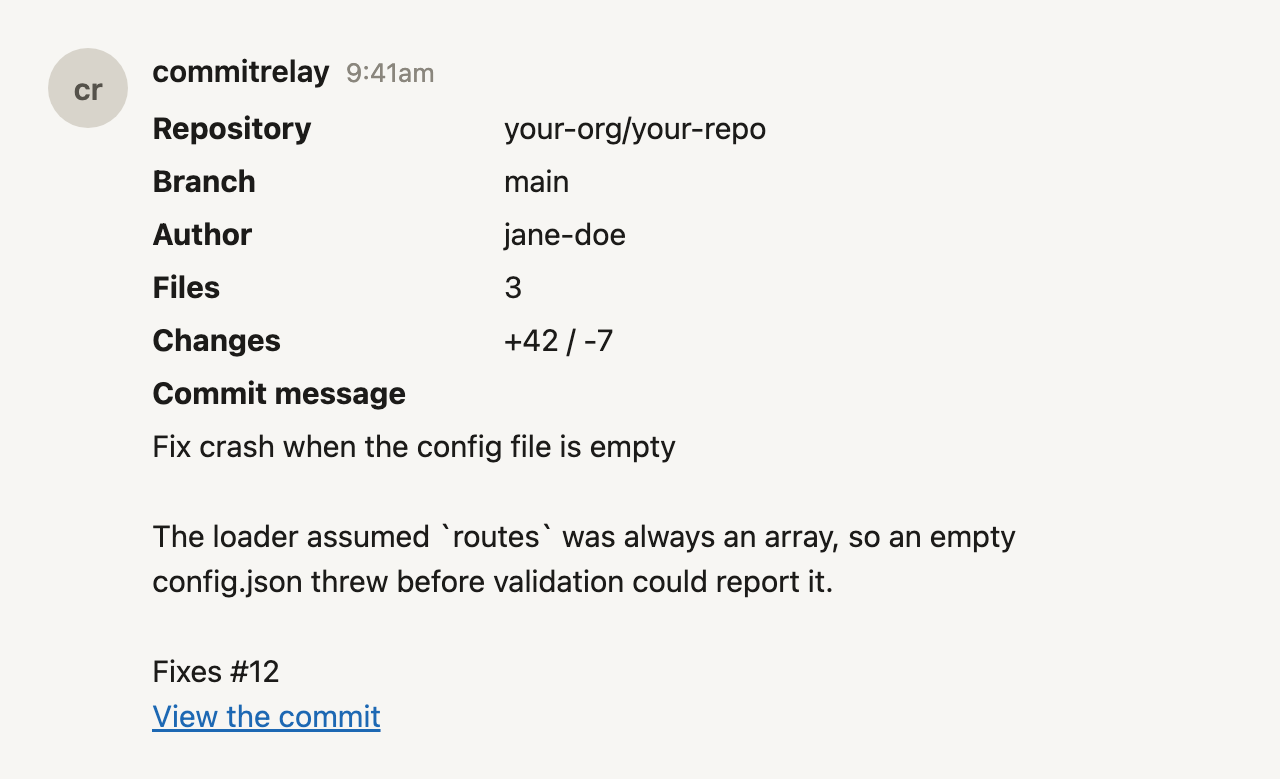
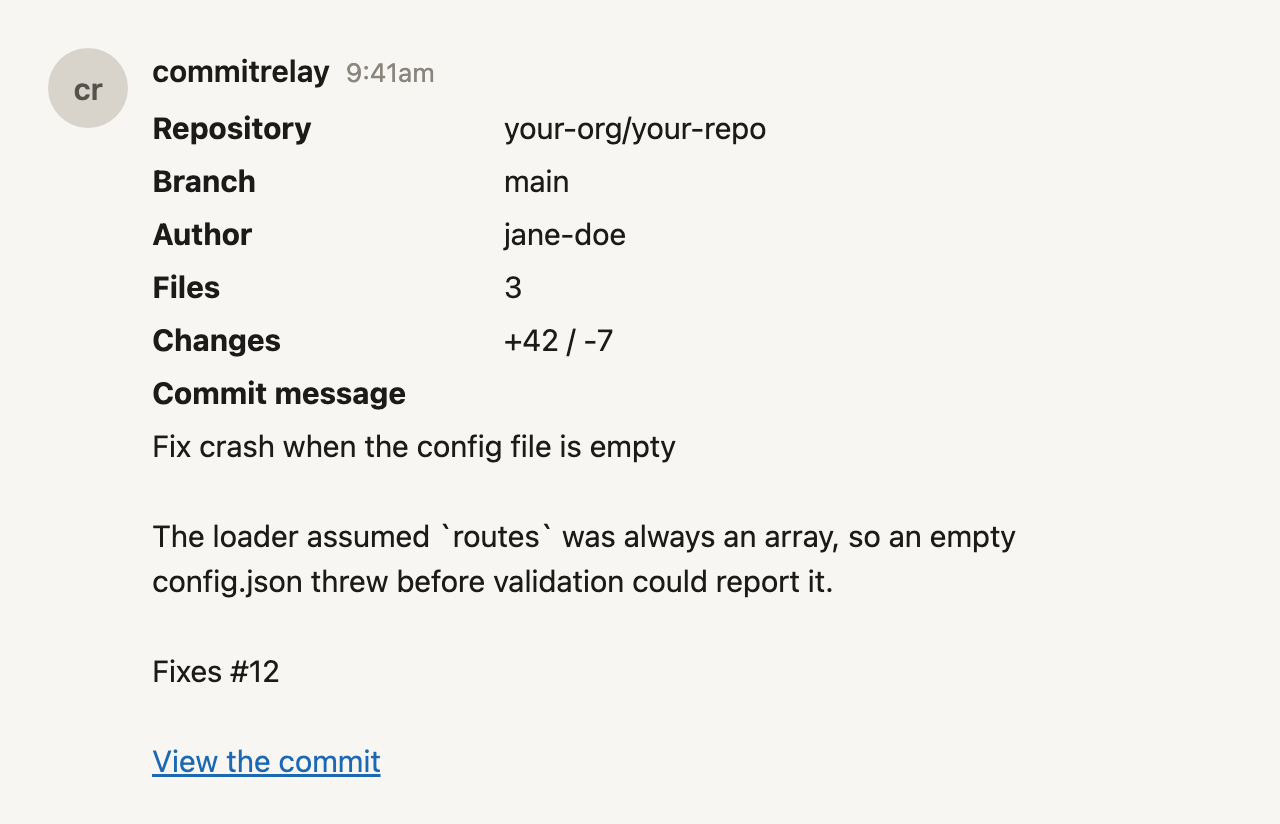
fix: link force-push rollups to the new head commit (#8)
- Force-push rollup links to the latest commit, not the comparison
- Force-push Files row reads N/A, since rewritten history shares no commits
- Poster builds headCommitUrl from the target origin and pushed SHA
- Add viewLatestCommit string and headCommitUrl to RollupView
- Put a blank line between every message body and its link
- Rollup footer reuses withLinkBelow instead of inline joins
- Update unit, e2e and golden tests for both changes
- Refresh basecamp-compat examples, configuration docs and message.png
- Add CHANGELOG entries under Changed and Fixed

diff --git a/src/render/message.test.ts b/src/render/message.test.ts
@@ -54,13 +54,14 @@ const rollup: RollupView = {
   fileCount: 48,
   authors: ['jane-doe', 'sam-lee'],
   compareUrl: 'https://github.com/your-org/your-repo/compare/abc1234...def5678',
+  headCommitUrl: 'https://github.com/your-org/your-repo/commit/def5678',
 };
 
 const doc = (...lines: string[]): string => lines.join('\n');
 
 /** The one link every commit message ends with. */
 const VIEW_COMMIT =
-  '<br><a href="https://github.com/your-org/your-repo/commit/abc1234">View the commit</a>';
+  '<br><br><a href="https://github.com/your-org/your-repo/commit/abc1234">View the commit</a>';
 
 const cp = (...codes: number[]): string => String.fromCodePoint(...codes);
 
@@ -105,7 +106,7 @@ const GOLDEN_ROLLUP_CAP = doc(
   '<tr><td colspan="2"><strong>More commits in this push</strong><br>',
   '</td></tr>',
   '<tr><td colspan="2">Individual commits are not shown for this push.<br>' +
-    'Authors: jane-doe, sam-lee<br>' +
+    'Authors: jane-doe, sam-lee<br><br>' +
     '<a href="https://github.com/your-org/your-repo/compare/abc1234...def5678">' +
     'View the full comparison</a><br>',
   '</td></tr>',
@@ -203,7 +204,7 @@ describe('buildCommitTable golden output', () => {
 
   it('renders an empty message as the commit link alone, never a missing row', () => {
     const html = buildCommitTable({ ...commit, message: '' }, lim);
-    expect(html).toContain(doc(`<tr><td colspan="2">${VIEW_COMMIT.slice(4)}<br>`, '</td></tr>'));
+    expect(html).toContain(doc(`<tr><td colspan="2">${VIEW_COMMIT.slice(8)}<br>`, '</td></tr>'));
     expect(html.match(/<tr>/g)).toHaveLength(7);
 
     const noUrl = buildCommitTable({ ...commit, message: '', commitUrl: null }, lim);
@@ -349,6 +350,7 @@ describe('the byte ceiling', () => {
           fileCount: 12,
           authors: ['a', 'b', 'c', 'd', 'e', 'f'],
           compareUrl: 'https://github.com/your-org/your-repo/compare/a...b',
+          headCommitUrl: 'https://github.com/your-org/your-repo/commit/b',
         },
         limLocal,
       );
@@ -364,7 +366,7 @@ describe('the byte ceiling', () => {
 
     expect(short).toContain(
       doc(
-        '<tr><td colspan="2">Fix crash when the config file is empty<br>' +
+        '<tr><td colspan="2">Fix crash when the config file is empty<br><br>' +
           '<a href="https://github.com/your-org/your-repo/commit/abc1234">' +
           'View the commit</a><br>',
         '</td></tr>',
@@ -376,7 +378,7 @@ describe('the byte ceiling', () => {
   it('hard-clips a 400 KB single-line subject rather than emitting it', () => {
     const message = 'z& '.repeat(140_000);
     const empty = buildCommitTable({ ...commit, message: '' }, lim);
-    const link = `<br><a href="${commit.commitUrl ?? ''}">${S.viewCommit}</a>`;
+    const link = `<br><br><a href="${commit.commitUrl ?? ''}">${S.viewCommit}</a>`;
     const tight = { ...lim, contentMaxBytes: contentBytes(empty) + contentBytes(link) + 200 };
     const html = buildCommitTable({ ...commit, message }, tight);
 
@@ -416,7 +418,7 @@ describe('hrefs', () => {
       expect(html).not.toContain('<a ');
       expect(html).not.toContain('href');
       // The rejected URL still takes the link's own line, as inert text.
-      expect(html).toContain(doc(`<tr><td colspan="2">Subject<br>${asText}<br>`, '</td></tr>'));
+      expect(html).toContain(doc(`<tr><td colspan="2">Subject<br><br>${asText}<br>`, '</td></tr>'));
     }
 
     const unlinked = buildCommitTable({ ...commit, message, commitUrl: null }, lim);
@@ -435,13 +437,13 @@ describe('hrefs', () => {
     );
     expect(html).not.toContain('<a ');
     expect(html).not.toContain('href');
-    expect(html).toContain('Authors: jane-doe, sam-lee<br>https://evil.example/compare/a...b<br>');
+    expect(html).toContain('Authors: jane-doe, sam-lee<br><br>https://evil.example/compare/a...b<br>');
   });
 
   it('omits the link slot entirely when there is no compare URL', () => {
     const html = buildRollupTable({ ...rollup, compareUrl: null }, lim);
     expect(html).not.toContain('<a ');
-    expect(html).toContain('Authors: jane-doe, sam-lee<br><br>');
+    expect(html).toContain('Authors: jane-doe, sam-lee<br>\n');
   });
 });
 
@@ -450,14 +452,13 @@ describe('buildRollupTable', () => {
     expect(buildRollupTable(rollup, lim)).toBe(GOLDEN_ROLLUP_CAP);
   });
 
-  it('differs between the three kinds in the row-5 label and nothing else', () => {
-    const labels: Record<RollupKind, string> = {
+  it('differs between cap and branch create in the row-5 label and nothing else', () => {
+    const labels: Record<Exclude<RollupKind, 'forced'>, string> = {
       cap: S.rollupCap,
       branch_create: S.rollupBranchCreate,
-      forced: S.rollupForced,
     };
 
-    for (const kind of ['cap', 'branch_create', 'forced'] as const) {
+    for (const kind of ['cap', 'branch_create'] as const) {
       const html = buildRollupTable({ ...rollup, kind }, lim);
       expect(html).toBe(
         GOLDEN_ROLLUP_CAP.replace(
@@ -467,6 +468,18 @@ describe('buildRollupTable', () => {
       );
       expect(html).toContain(`<tr><td colspan="2"><strong>${labels[kind]}</strong><br>`);
     }
+  });
+
+  it('links a force push to the new head and reports no file count', () => {
+    const html = buildRollupTable({ ...rollup, kind: 'forced' }, lim);
+    expect(html).toBe(
+      GOLDEN_ROLLUP_CAP.replace(`<strong>${S.rollupCap}</strong>`, `<strong>${S.rollupForced}</strong>`)
+        .replace('<td>48<br>', '<td>N/A<br>')
+        .replace(
+          '<a href="https://github.com/your-org/your-repo/compare/abc1234...def5678">View the full comparison</a>',
+          '<a href="https://github.com/your-org/your-repo/commit/def5678">View the latest commit</a>',
+        ),
+    );
   });
 
   it('renders Changes as N/A and carries no remainder count', () => {

diff --git a/src/render/message.ts b/src/render/message.ts
@@ -99,6 +99,8 @@ export interface RollupView {
   fileCount: number | null;
   authors: string[];
   compareUrl: string | null;
+  /** The pushed head. A force push links here instead of the comparison. */
+  headCommitUrl: string | null;
 }
 
 /** Exhaustive by type: a new RollupKind will not compile without a string. */
@@ -109,14 +111,25 @@ const ROLLUP_LABEL: Record<RollupKind, string> = {
 };
 
 export function buildRollupTable(r: RollupView, lim: RenderLimits): string {
-  const link = anchor(r.compareUrl, S.viewComparison, lim.webOrigin);
+  // A force push has no meaningful before...after: after a history rewrite the
+  // comparison shares no commits (GitHub shows "no common ancestor"), commits[]
+  // lists the whole new history, and the old tip may hold what the rewrite purged.
+  // The webhook carries no parent SHAs to tell a rewrite from a rebase, so every
+  // force push links the new head and reports no file count.
+  const forced = r.kind === 'forced';
+  const link = (
+    forced
+      ? anchor(r.headCommitUrl, S.viewLatestCommit, lim.webOrigin)
+      : anchor(r.compareUrl, S.viewComparison, lim.webOrigin)
+  ).trim();
+  const fileCount = forced ? null : r.fileCount;
 
   // Changes is always N/A here: the compare endpoint's commits[] carries
   // no per-commit stats, and fetching them is the subrequest cost the cap avoids.
   const rows =
     pair(S.repository, plain(r.repoFullName)) +
     pair(refLabel(r.refKind), plain(r.refName)) +
-    pair(S.files, r.fileCount === null ? UNAVAILABLE : `${r.fileCount}`) +
+    pair(S.files, fileCount === null ? UNAVAILABLE : `${fileCount}`) +
     pair(S.changes, UNAVAILABLE);
 
   const distinctAuthors = [...new Set(r.authors.map((name) => plain(name)))];
@@ -125,12 +138,11 @@ export function buildRollupTable(r: RollupView, lim: RenderLimits): string {
       ? distinctAuthors.join(', ')
       : `${distinctAuthors.slice(0, 5).join(', ')}, +${distinctAuthors.length - 5} more`;
 
-  let footer =
-    `${S.commitsNotShown}<br>${S.authors}: ${authors}<br>${link.trim()}`;
+  let footer = withLinkBelow(`${S.commitsNotShown}<br>${S.authors}: ${authors}`, link);
   let html = assembleDocument(
     rows,
-    // The only per-kind difference: cap, branch create, and force push share
-    // every other row. No free-text label ever reaches the renderer.
+    // Besides the force-push link and Files row above, the only per-kind
+    // difference. No free-text label ever reaches the renderer.
     ROLLUP_LABEL[r.kind],
     // No count of any kind: nothing posted individually, and commits[] is capped at
     // 2048 with an oversized payload never delivered, so any figure here is a floor.
@@ -138,7 +150,7 @@ export function buildRollupTable(r: RollupView, lim: RenderLimits): string {
   );
 
   if (!fitsContent(html, lim.contentMaxBytes)) {
-    footer = `${S.commitsNotShown}<br>${link.trim()}`;
+    footer = withLinkBelow(S.commitsNotShown, link);
     html = assembleDocument(rows, ROLLUP_LABEL[r.kind], footer);
   }
 

diff --git a/tests/e2e.webhook.test.ts b/tests/e2e.webhook.test.ts
@@ -57,7 +57,7 @@ interface CommitTable {
 
 /** Every commit message ends with the one link in the table, to the commit. */
 const viewCommit = (sha: string): string =>
-  `<br><a href="https://github.com/your-org/your-repo/commit/${sha}">View the commit</a>`;
+  `<br><br><a href="https://github.com/your-org/your-repo/commit/${sha}">View the commit</a>`;
 
 function commitTable(v: CommitTable): string {
   return document_(
@@ -77,6 +77,7 @@ interface RollupTable {
   authors: string;
   label: string;
   compare: string;
+  linkText?: string;
 }
 
 function rollupTable(v: RollupTable): string {
@@ -88,7 +89,7 @@ function rollupTable(v: RollupTable): string {
     v.label,
     'Individual commits are not shown for this push.<br>Authors: ' +
       v.authors +
-      `<br><a href="${v.compare}">View the full comparison</a>`,
+      `<br><br><a href="${v.compare}">${v.linkText ?? 'View the full comparison'}</a>`,
   );
 }
 
@@ -122,7 +123,7 @@ describe('push.normal.json, 3 commits on an allowed branch', () => {
         '</td></tr>\n' +
         '<tr><td colspan="2"><strong>Commit message</strong><br>\n' +
         '</td></tr>\n' +
-        '<tr><td colspan="2">Add the changelog entry for 1.4.0<br>' +
+        '<tr><td colspan="2">Add the changelog entry for 1.4.0<br><br>' +
         '<a href="https://github.com/your-org/your-repo/commit/0b1c2d3e4f50617283940a1b2c3d4e5f60718293">' +
         'View the commit</a><br>\n' +
         '</td></tr>\n' +
@@ -222,10 +223,12 @@ describe('the rollup fixtures', () => {
     expect(r.basecamp.contents()[0]).toBe(
       rollupTable({
         branch: 'main',
-        files: '1',
+        files: 'N/A',
         authors: 'jane-doe, sam-lee',
         label: 'Force push',
-        compare: 'https://github.com/your-org/your-repo/compare/420377da02f0...f3d04611f21b',
+        compare:
+          'https://github.com/your-org/your-repo/commit/f3d04611f21b71992652048e971d6e3fa6c3a1d2',
+        linkText: 'View the latest commit',
       }),
     );
   });
@@ -399,7 +402,7 @@ describe('pull request events', () => {
     );
 
   const VIEW_PR =
-    '<br><a href="https://github.com/your-org/your-repo/pull/42">View the pull request</a>';
+    '<br><br><a href="https://github.com/your-org/your-repo/pull/42">View the pull request</a>';
 
   it('posts one table when a pull request is merged, and calls no GitHub API', async () => {
     const r = relay();
@@ -446,7 +449,7 @@ describe('pull request events', () => {
         files: 'N/A',
         changes: 'N/A',
         body:
-          'Add OAuth login flow<br><a href="https://github.com/your-org/your-repo/pull/42' +
+          'Add OAuth login flow<br><br><a href="https://github.com/your-org/your-repo/pull/42' +
           '#pullrequestreview-900001">View the pull request</a>',
       }),
     );

diff --git a/src/render/table.ts b/src/render/table.ts
@@ -99,10 +99,10 @@ export function renderMessageBody(raw: string, maxCodePoints: number): string {
     .replace(/(?:<br>){3,}/g, '<br><br>');
 }
 
-/** The message, then the link on a line of its own. Either alone when the
- *  other is empty, so an empty message never starts with a bare <br>. */
+/** The message, a blank line, then the link. Either alone when the other is
+ *  empty, so an empty message never starts with a bare <br>. */
 export const withLinkBelow = (bodyHtml: string, linkHtml: string): string =>
-  bodyHtml === '' || linkHtml === '' ? bodyHtml + linkHtml : `${bodyHtml}<br>${linkHtml}`;
+  bodyHtml === '' || linkHtml === '' ? bodyHtml + linkHtml : `${bodyHtml}<br><br>${linkHtml}`;
 
 export function anchor(url: string | null, text: string, origin: string): string {
   const safe = safeUrl(url, origin); // https only, origin must match; null otherwise

diff --git a/src/relay/poster.ts b/src/relay/poster.ts
@@ -266,6 +266,8 @@ export async function postRollupJob(
         fileCount: rollup.fileCount,
         authors: rollup.authors,
         compareUrl: push.compareUrl,
+        // webOrigin is a validated https origin and repoFullName two checked segments.
+        headCommitUrl: `${push.target.webOrigin}/${push.repoFullName}/commit/${push.after}`,
       },
       renderLimits(deps, push),
     );

diff --git a/src/render/pull-request.test.ts b/src/render/pull-request.test.ts
@@ -41,7 +41,7 @@ const GOLDEN_MERGED = doc(
   '</td></tr>',
   '<tr><td colspan="2"><strong>Pull request #42 merged</strong><br>',
   '</td></tr>',
-  '<tr><td colspan="2">Add OAuth login flow<br>' +
+  '<tr><td colspan="2">Add OAuth login flow<br><br>' +
     '<a href="https://github.com/your-org/your-repo/pull/42">View the pull request</a><br>',
   '</td></tr>',
   '</tbody>',

diff --git a/src/render/strings.ts b/src/render/strings.ts
@@ -15,6 +15,7 @@ export const S = {
   authors: 'Authors',
   viewCommit: 'View the commit',
   viewComparison: 'View the full comparison',
+  viewLatestCommit: 'View the latest commit',
   viewPullRequest: 'View the pull request',
   pullRequest: 'Pull request',
   /** Separator in the Branch row of a pull request: head to base. */

diff --git a/docs/basecamp-compat.md b/docs/basecamp-compat.md
@@ -32,7 +32,7 @@ each row is load-bearing, not cosmetic.
 </td></tr>
 <tr><td colspan="2"><strong>Commit message</strong><br>
 </td></tr>
-<tr><td colspan="2">Fix crash when the config file is empty<br><a href="https://github.com/AKMofficial/commit-relay/commit/9f2c1ab7e4d5c60318b2ee0a7f13c9d80a4b6e21">View the commit</a><br>
+<tr><td colspan="2">Fix crash when the config file is empty<br><br><a href="https://github.com/AKMofficial/commit-relay/commit/9f2c1ab7e4d5c60318b2ee0a7f13c9d80a4b6e21">View the commit</a><br>
 </td></tr>
 </tbody>
 </table></div>
@@ -43,7 +43,7 @@ That HTML is the value of the `content` field, not the request body. Write the b
 (newlines escaped as `\n`):
 
 ```json
-{"content":"<div dir=\"ltr\"><table dir=\"ltr\" cellpadding=\"4\">\n<tbody>\n<tr><td nowrap><strong>Repository&nbsp;</strong></td><td>AKMofficial/commit-relay<br>\n</td></tr>\n<tr><td nowrap><strong>Author&nbsp;</strong></td><td>jane-doe<br>\n</td></tr>\n<tr><td nowrap><strong>Files&nbsp;</strong></td><td>3<br>\n</td></tr>\n<tr><td nowrap><strong>Changes&nbsp;</strong></td><td>+42 / -7<br>\n</td></tr>\n<tr><td colspan=\"2\"><strong>Commit message</strong><br>\n</td></tr>\n<tr><td colspan=\"2\">Fix crash when the config file is empty<br><a href=\"https://github.com/AKMofficial/commit-relay/commit/9f2c1ab7e4d5c60318b2ee0a7f13c9d80a4b6e21\">View the commit</a><br>\n</td></tr>\n</tbody>\n</table></div>"}
+{"content":"<div dir=\"ltr\"><table dir=\"ltr\" cellpadding=\"4\">\n<tbody>\n<tr><td nowrap><strong>Repository&nbsp;</strong></td><td>AKMofficial/commit-relay<br>\n</td></tr>\n<tr><td nowrap><strong>Author&nbsp;</strong></td><td>jane-doe<br>\n</td></tr>\n<tr><td nowrap><strong>Files&nbsp;</strong></td><td>3<br>\n</td></tr>\n<tr><td nowrap><strong>Changes&nbsp;</strong></td><td>+42 / -7<br>\n</td></tr>\n<tr><td colspan=\"2\"><strong>Commit message</strong><br>\n</td></tr>\n<tr><td colspan=\"2\">Fix crash when the config file is empty<br><br><a href=\"https://github.com/AKMofficial/commit-relay/commit/9f2c1ab7e4d5c60318b2ee0a7f13c9d80a4b6e21\">View the commit</a><br>\n</td></tr>\n</tbody>\n</table></div>"}
 ```
 
 Then post it, with the room's own four values substituted into the URL:
@@ -110,7 +110,7 @@ elements to block-level siblings outside it. Every tag and attribute below is on
 </tbody>
 </table>
 <strong>Commit message</strong><br>
-<blockquote>Fix crash when the config file is empty<br><br>Fixes #12<br><a href="https://github.com/AKMofficial/commit-relay/commit/9f2c1ab7e4d5c60318b2ee0a7f13c9d80a4b6e21">View the commit</a><br>
+<blockquote>Fix crash when the config file is empty<br><br>Fixes #12<br><br><a href="https://github.com/AKMofficial/commit-relay/commit/9f2c1ab7e4d5c60318b2ee0a7f13c9d80a4b6e21">View the commit</a><br>
 </blockquote>
 </div>
 ```

diff --git a/docs/configuration.md b/docs/configuration.md
@@ -137,7 +137,7 @@ values come from: [Basecamp setup](./basecamp-setup.md).
 | `BRANCHES` | no | no | `**` | Global branch allowlist, comma-separated globs. `**`, the default, means every branch. **Case-sensitive**: git refs are |
 | `TAGS` | no | no | *(empty)* | Tag allowlist, matched against the ref with `refs/tags/` stripped. **Empty means no tag push is ever relayed.** Tags are never matched against `BRANCHES` |
 | `REPO_ALLOWLIST` | no | no | *(empty)* | `owner/repo` globs, evaluated **before** routing. Empty accepts any correctly-signed repo and logs `warn repo_allowlist_open` once at boot. A value that lists nothing, such as `,`, is a validation error. **Case-insensitive** |
-| `SKIP_FORCED_PUSHES` | no | no | `false` | At the default, a `forced: true` push posts one rollup message labelled as a force push, never per-commit tables, because a rebase gives every commit a new SHA and SHA dedup cannot stop the double-announce. Set it to `true` to post nothing at all, logged `push_skipped { reason: "forced_push" }` |
+| `SKIP_FORCED_PUSHES` | no | no | `false` | At the default, a `forced: true` push posts one rollup message labelled as a force push, never per-commit tables, because a rebase gives every commit a new SHA and SHA dedup cannot stop the double-announce. The rollup links to the new head commit and its Files row reads `N/A`: after a history rewrite the old and new tips share no commits, so a comparison or file count would cover the whole repository. Set it to `true` to post nothing at all, logged `push_skipped { reason: "forced_push" }` |
 | `SKIP_MERGE_COMMITS` | no | no | `true` | A merge commit's API diff is first-parent, i.e. the whole merged branch. With this on, a PR merge **still posts every branch commit**: only the merge commit itself is suppressed |
 | `SKIP_NON_DISTINCT` | no | no | `true` | Drops commits delivered with `distinct: false` (already announced on another ref in this repo) |
 | `IGNORE_AUTHORS` | no | no | *(empty)* | Globs matched against `sender.login`, `commit.author.username`, and `commit.author.email`. Not defaulted to any list: that would be a hardcoded assumption. `dependabot[bot],renovate[bot]` is suggested in a comment in the example files |

diff --git a/CHANGELOG.md b/CHANGELOG.md
@@ -9,6 +9,8 @@ and this project adheres to [Semantic Versioning 2.0.0](https://semver.org/spec/
 
 ### Changed
 
+- The link at the bottom of every message now sits after a blank line instead of
+  directly under the text.
 - Default `COMMIT_BODY_MAX_CHARS` raised from 2000 to 4000 and `CONTENT_MAX_BYTES`
   from 16384 to 32768, so long commit messages are no longer clipped.
 - `railway.json` sets `overlapSeconds` to 0, so a redeploy never runs two processes
@@ -23,6 +25,10 @@ and this project adheres to [Semantic Versioning 2.0.0](https://semver.org/spec/
 
 ### Fixed
 
+- A force push now links to the latest commit instead of the comparison, and its Files
+  row reads N/A. After a history rewrite the old and new history share no commits, so
+  the comparison page was empty, the file count covered the whole repo, and the link
+  pointed at the old tip, which can still hold whatever the rewrite removed.
 - `/healthz` Basecamp health is tracked per room: the next successful post to a room
   clears its terminal status, so repairing one route no longer needs a restart, and
   one bad route no longer hides that the others recovered.
